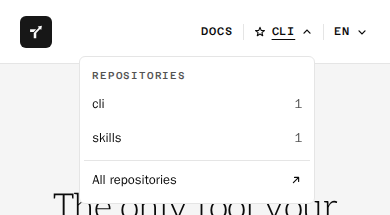
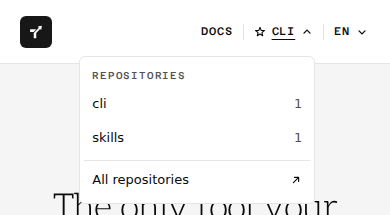
test(visual): regenerate the baselines where the browser check renders them
The first regeneration on this host drew every sans glyph in WenQuanYi Zen
Hei, the local fallback, so six baselines differed from the GitHub runner at
four percent of their pixels: the Not-found page's heading and the English
home's sub-line. The suite pins the Thai face only, so all other text comes
from the host.

These twelve are rendered in mcr.microsoft.com/playwright:v1.65.0-noble with
fonts-dejavu-core added, the face the runner resolves, and match the images
the failing browser check reported byte for byte. The screenshots in
docs/screenshots/ are re-rendered there too, so the evidence and the baselines
show the same page, and the suite's own comment says where to regenerate them.

diff --git a/e2e/visual.e2e.ts b/e2e/visual.e2e.ts
@@ -32,7 +32,11 @@ async function pinFonts(page: Page): Promise<void> {
 /**
  * The screenshots CI validates: every page in every Theme on a desktop and a phone. Motion is
  * reduced, so the hero holds the suffix the page ships and nothing animates into the snapshot.
- * Regenerate the baselines with `bun run test:visual:update` after an intended visual change.
+ * Regenerate the baselines with `bun run test:visual:update` after an intended visual change, in an
+ * environment whose fallback sans is the GitHub runner's DejaVu Sans: the pin above covers Thai
+ * only, so every sans glyph comes from the host, and a host with another one changes them all.
+ * `mcr.microsoft.com/playwright:v1.65.0-noble` with `fonts-dejavu-core` added renders them byte for
+ * byte the way the browser check does (site#42).
  */
 test.describe("the built pages as screenshots", () => {
 	test.use({ reducedMotion: "reduce" })
